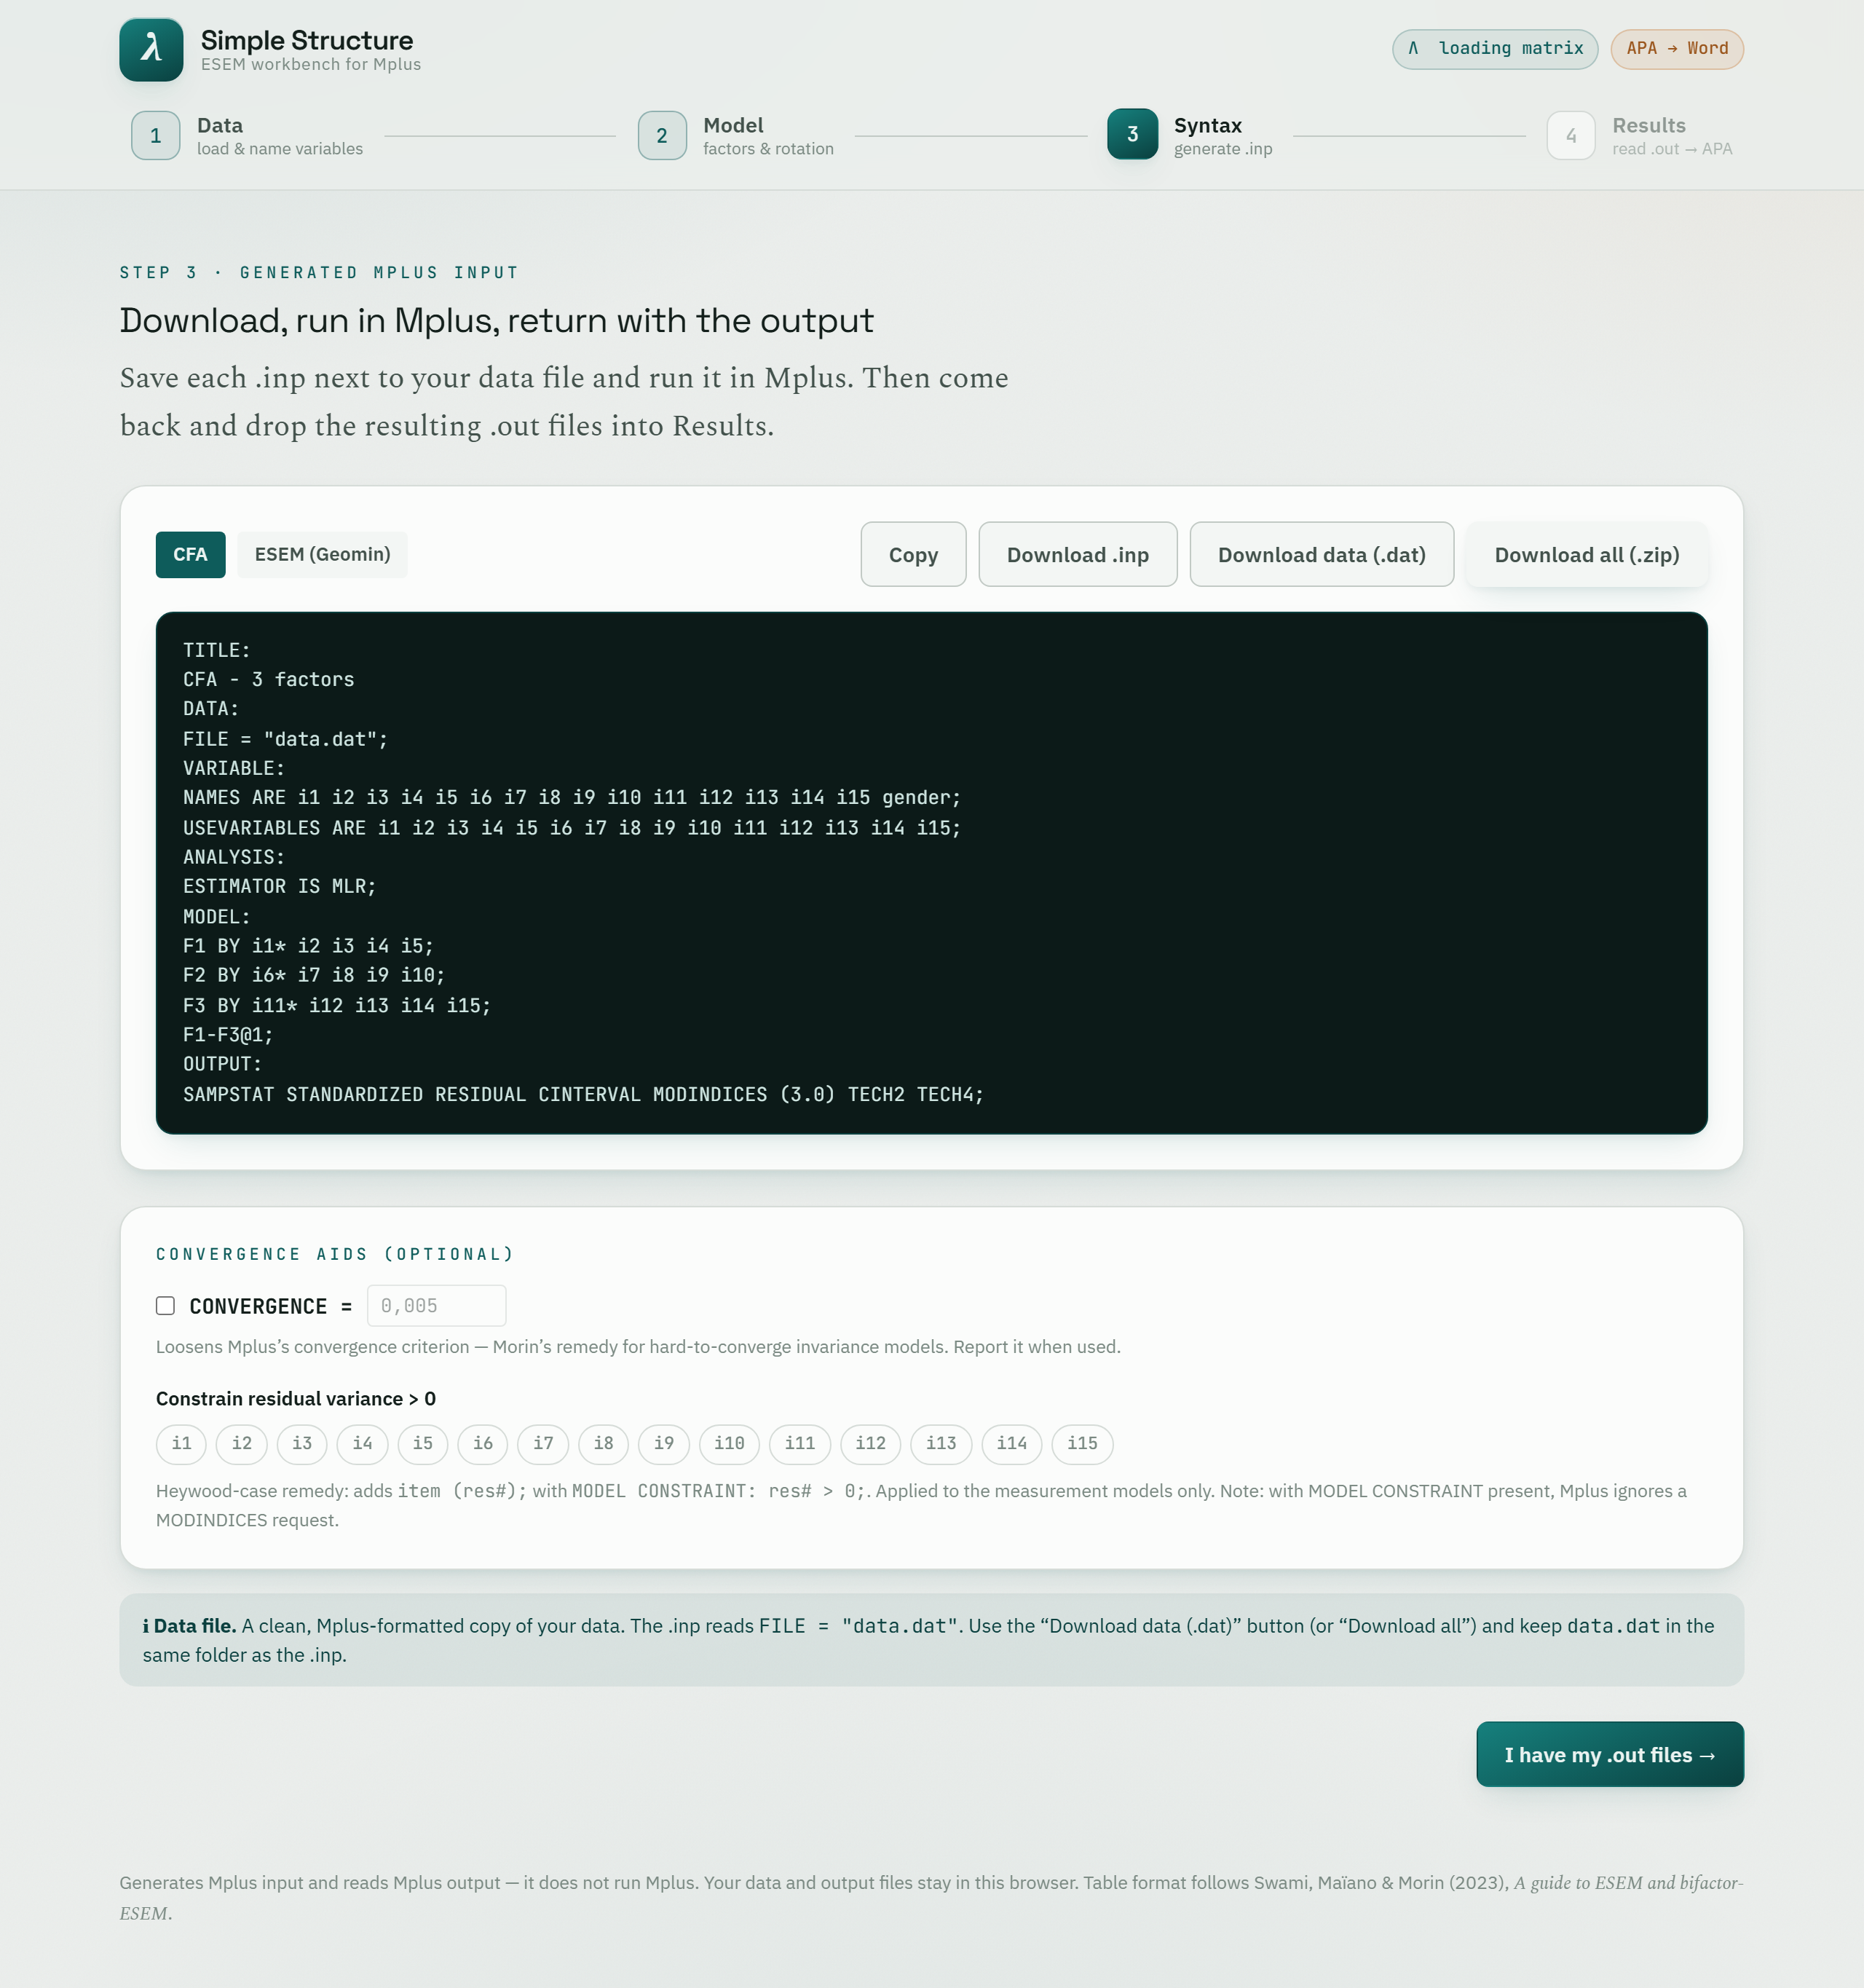
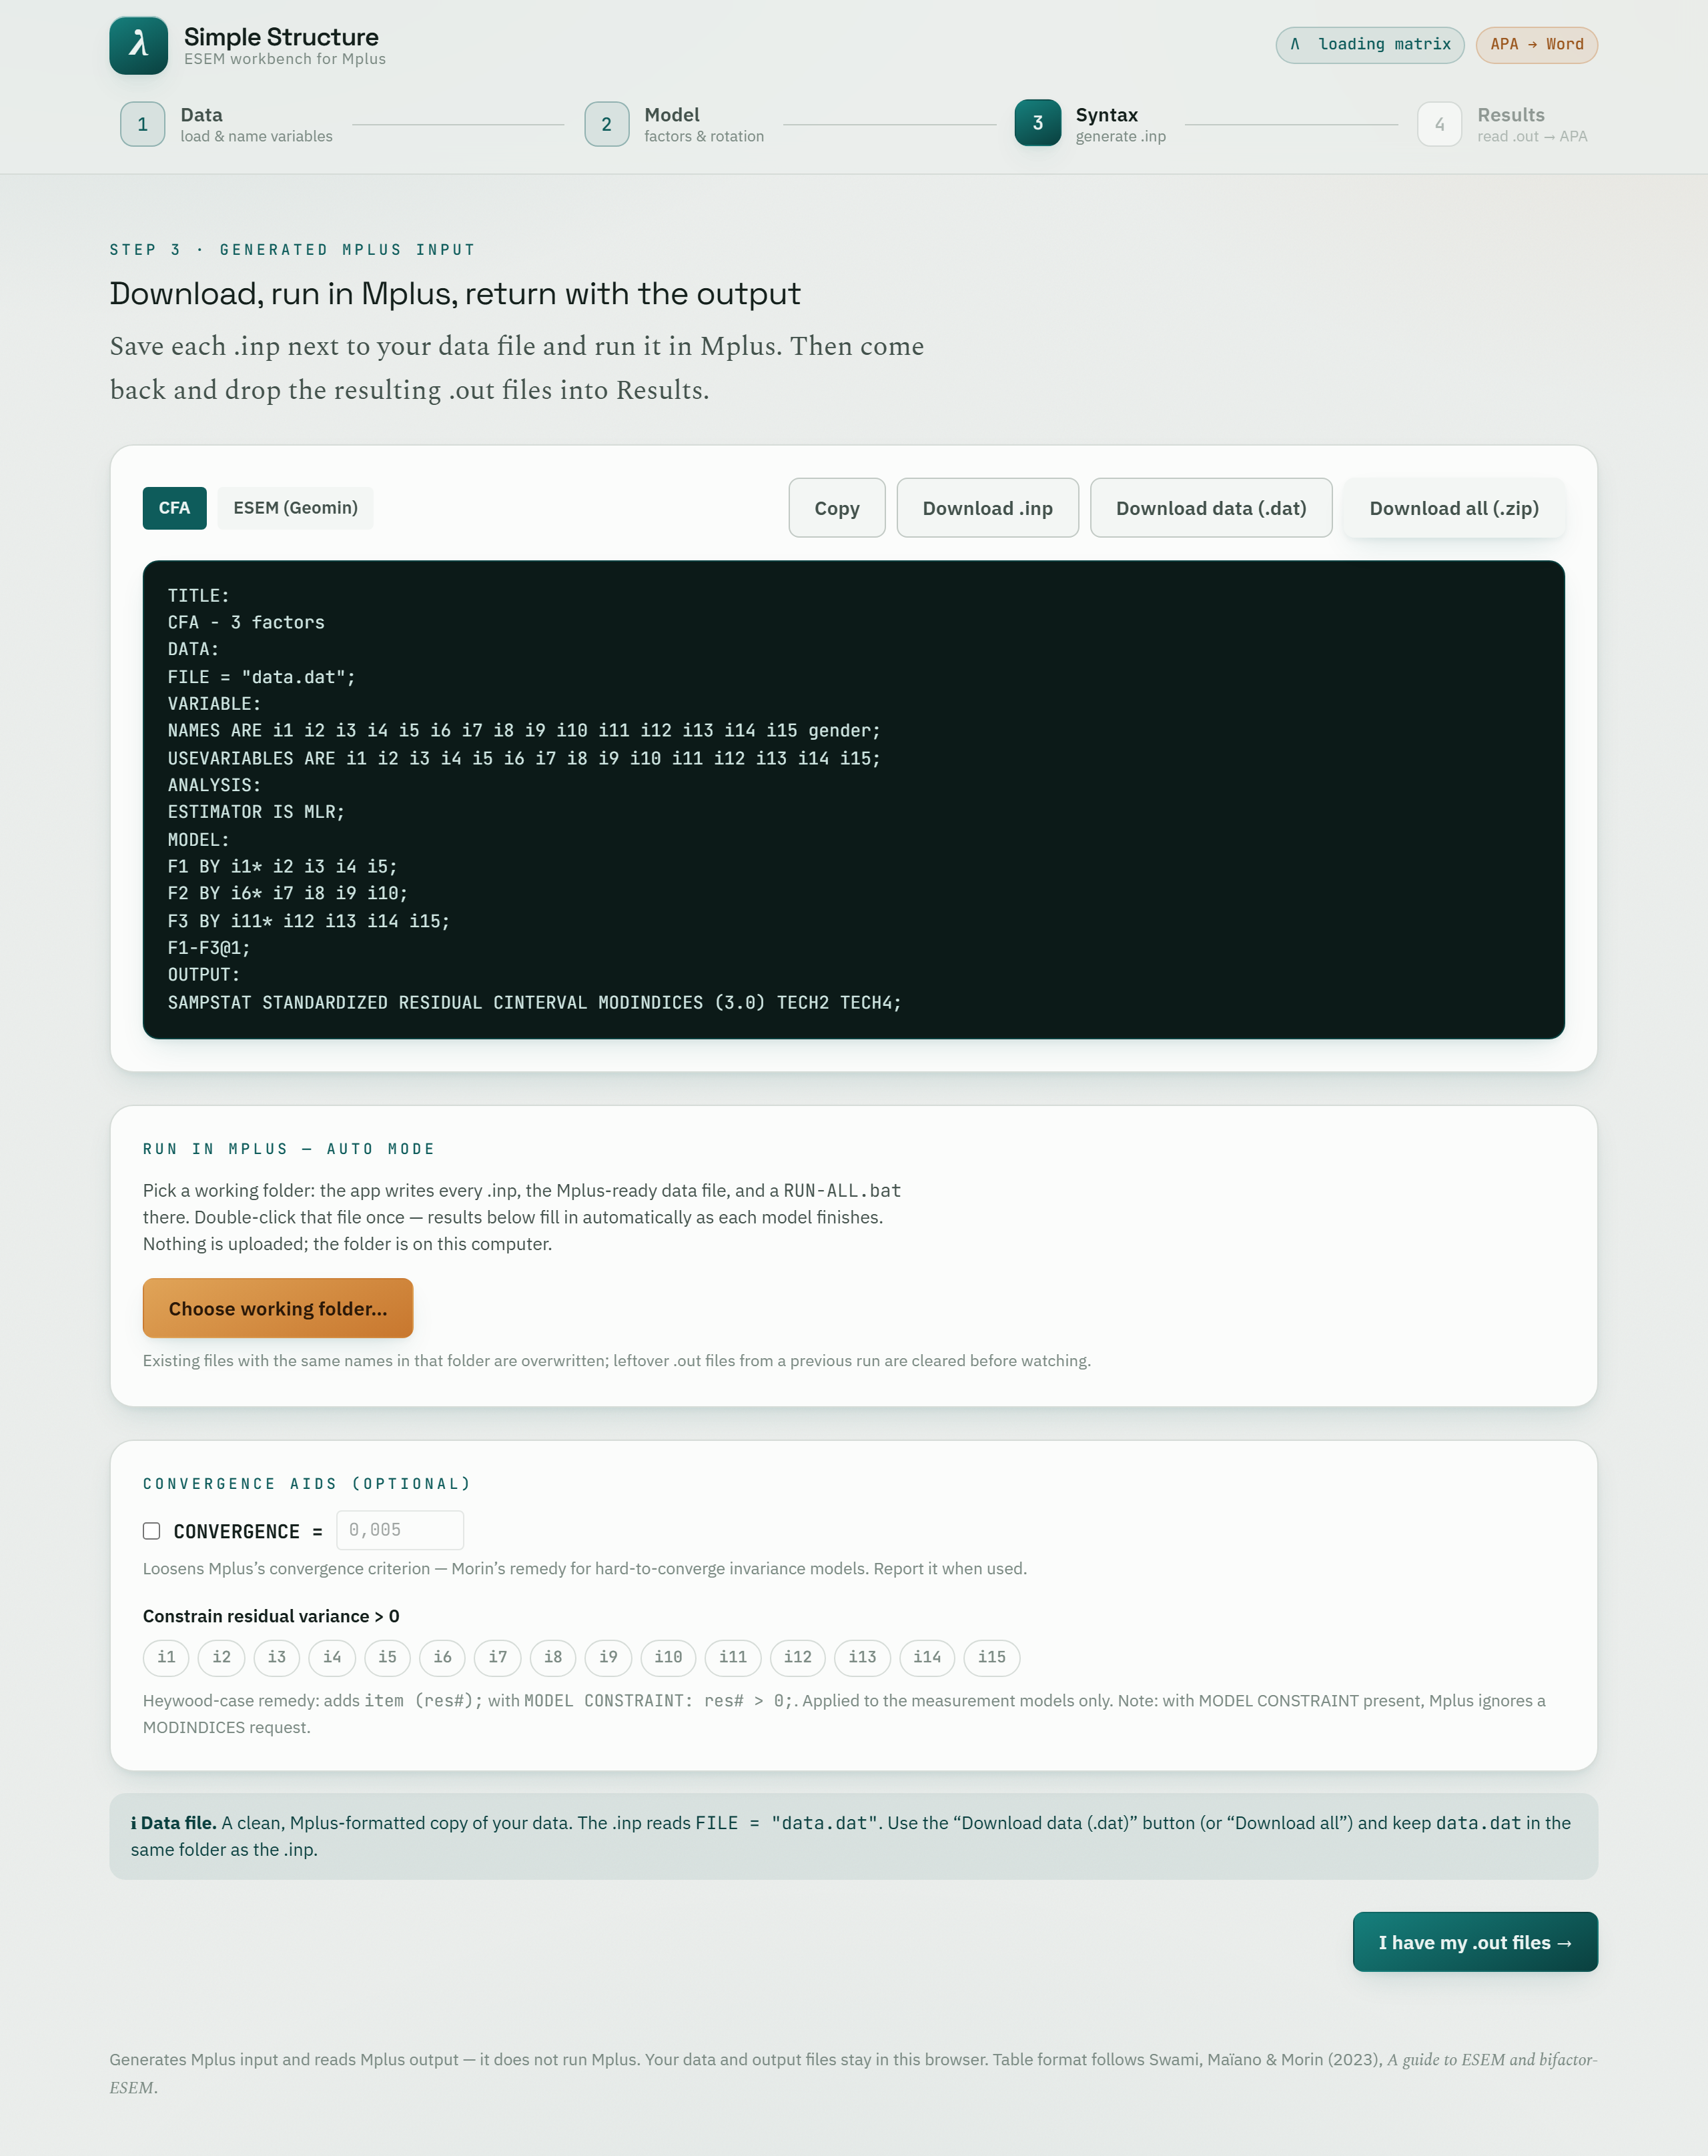
Document auto mode (README, demo) + refresh the syntax-step screenshot

diff --git a/demo.html b/demo.html
@@ -166,12 +166,15 @@
           The app writes exact Mplus <span class="font-mono">.inp</span> for every model — CFA, ESEM
           (Geomin &amp; Target), bifactor-CFA, bifactor-ESEM, and the six invariance steps — wrapped under the
           90-character limit. ESEM outputs include <span class="font-mono">SVALUES</span> for ESEM-within-CFA.
-          Download one file or a <span class="font-mono">.zip</span> of all. An optional
+          Download one file or a <span class="font-mono">.zip</span> of all — or skip the downloads entirely:
+          <span class="font-semibold">auto mode</span> (Chrome/Edge) writes everything into a local working
+          folder with a <span class="font-mono">RUN-ALL.bat</span>; double-click it once and the results
+          import themselves as each model finishes. An optional
           <span class="font-semibold">Convergence aids</span> panel adds Morin's remedies for stubborn models:
           a loosened <span class="font-mono">CONVERGENCE</span> criterion and per-item
           <span class="font-mono">residual&nbsp;&gt;&nbsp;0</span> constraints for Heywood cases.
         </p>
-        <div class="shot mb-4"><img src="docs/img/03-syntax.png?v=5" alt="Generated Mplus .inp syntax with the optional convergence-aids panel" loading="lazy" /></div>
+        <div class="shot mb-4"><img src="docs/img/03-syntax.png?v=6" alt="Generated Mplus .inp syntax with the auto-mode and convergence-aids panels" loading="lazy" /></div>
         <a class="btn btn-ghost cta-link" href="index.html?demo=syntax">▶ Open the syntax step</a>
       </div>
     </div>

diff --git a/README.md b/README.md
@@ -27,8 +27,8 @@ in body image research_, _Body Image_ 47, 262–278.**
 |------|--------|--------------|
 | **1 · Data** | Upload a `.dat` / `.csv` | Auto-detect columns, delimiter, header; export an Mplus-ready `.dat` |
 | **2 · Model** | Sketch the factor model on a Λ grid | Pick factors, rotation (Geomin / Target), estimator, bifactor, grouping |
-| **3 · Syntax** | — | Generate exact `.inp` for each model; download one file or a `.zip` |
-| **4 · Results** | Drop your Mplus `.out` files | APA fit / loadings / bifactor / invariance tables + prose + path diagrams; copy to Word, `.docx` |
+| **3 · Syntax** | — | Generate exact `.inp` for each model; download one file, a `.zip`, or write them straight into a working folder (auto mode) |
+| **4 · Results** | Drop your Mplus `.out` files — or let auto mode import them | APA fit / loadings / bifactor / invariance tables + prose + path diagrams; copy to Word, `.docx` |
 
 ### Models supported
 
@@ -38,6 +38,7 @@ in body image research_, _Body Image_ 47, 262–278.**
 - **Measurement invariance** — across **groups** (multi-group) or across **time** (within-person, 2-wave longitudinal, for CFA, ESEM, and **bifactor-ESEM**): configural → metric → scalar → strict → variance–covariance → latent means (Satorra–Bentler scaled Δχ² for MLR; Chen 2007 ΔCFI/ΔRMSEA verdicts). Longitudinal models equate loadings across waves and correlate each indicator's residual over time; the bifactor sequence follows Morin's Hoyle-Handbook chapter (orthogonal target rotation, general + specific factors per wave).
 - **ESEM-within-CFA** — convert a rotated ESEM solution into an equivalent CFA you can embed in larger SEM/MIMIC/DIF models (Morin's referent method)
 - **Convergence aids** (optional, on the Syntax step) — the two remedies Morin uses in the Hoyle-Handbook chapter: a loosened `CONVERGENCE` criterion (emitted for every model, invariance sequences included) and per-item residual-variance positivity constraints (`item (res#); … MODEL CONSTRAINT: res# > 0;`, single-group measurement models only) for Heywood cases
+- **Auto mode** (optional, Chrome/Edge desktop) — pick a local working folder and the app writes every `.inp`, the Mplus-ready `.dat`, and a `RUN-ALL.bat` there; double-click that file once and the results import themselves as each model finishes. Nothing is uploaded — the folder, the bat, and Mplus are all on your machine.
 
 Standardized-loadings tables follow Morin's Table-2 layout — items grouped into subscale blocks with a per-block ω row, target loadings bold, non-significant loadings italic — identically in the browser, the copy-to-Word HTML, and the `.docx` export.
 

diff --git a/GUIDE.md b/GUIDE.md
@@ -41,7 +41,7 @@ constraints to identify the rotation, or if a factor has no main items.
 The app writes exact Mplus `.inp` for each requested model. Download a single file or a `.zip` of all of
 them; lines are wrapped to stay under Mplus's 90-character limit.
 
-![Generated syntax](docs/img/03-syntax.png?v=5)
+![Generated syntax](docs/img/03-syntax.png?v=6)
 
 A few load-bearing conventions, matched to Swami/Maïano/Morin (2023):
 